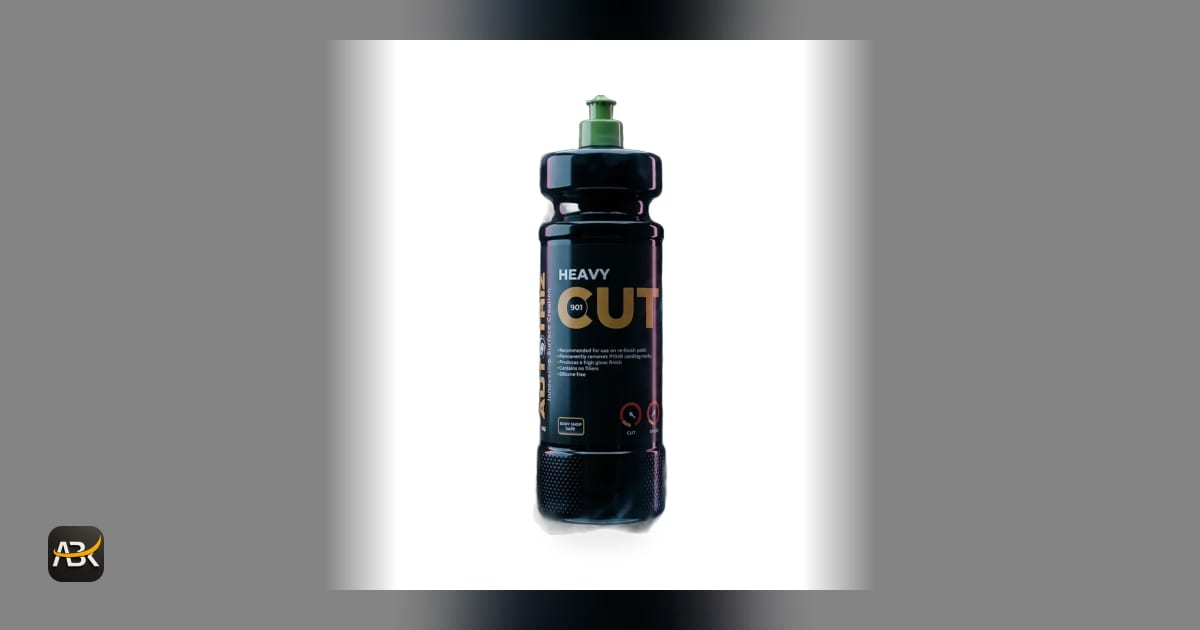
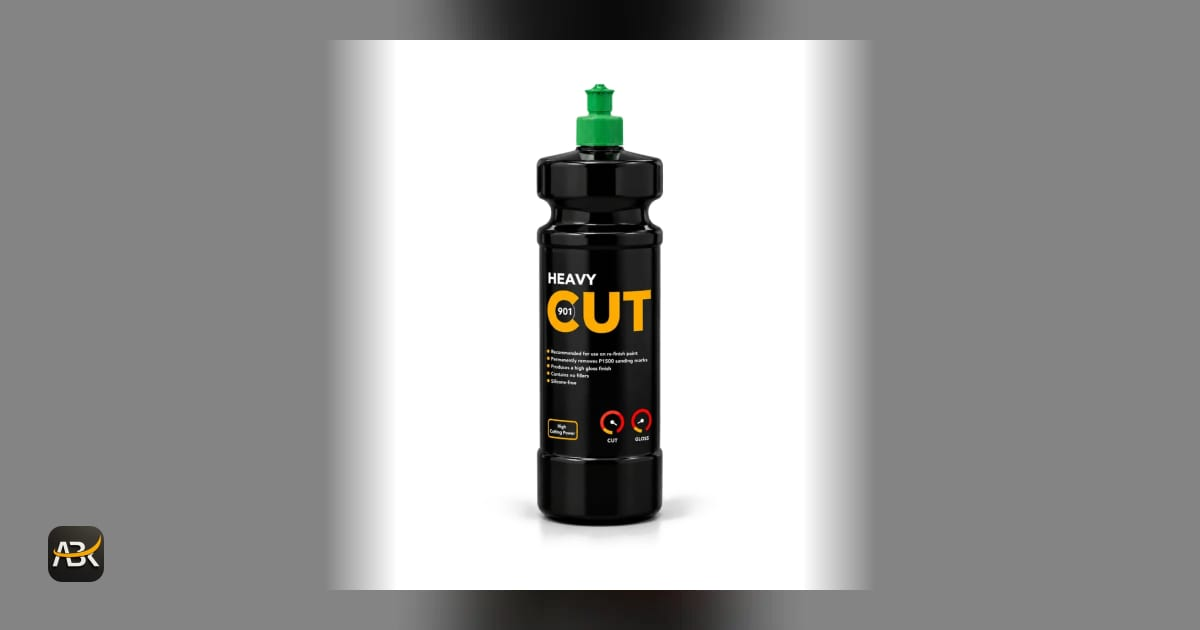
feat(products): update Autotriz Heavy Cut 901 with high-res studio bottle packshot
- Processed new high-res bottle render with green cap onto pure #ffffff 1200x1200 canvas
- Updated product specs with cut power, finish, and formulation details
- Regenerated social OG card public/og/products/autotriz-heavy-cut-901.jpg

Changed region(s): [[0.4317, 0.1206, 0.5858, 0.8444], [0.4317, 0.9349, 0.555, 1.0], [0.37, 0.0, 0.4625, 0.0603]]

diff --git a/src/data/products.ts b/src/data/products.ts
@@ -679,8 +679,25 @@ export const PRODUCTS: Product[] = [
     images: ["/products/autotriz/autotriz-heavy-cut-901.webp"],
     specs: [
       { label: { en: "SKU", ar: "رقم المنتج" }, value: { en: "901", ar: "901" } },
+      {
+        label: { en: "Cut Power", ar: "قوة القطع" },
+        value: { en: "High Cut (Removes P1500 Sanding Marks)", ar: "قطع عالي (إزالة سنفرة P1500)" },
+      },
+      {
+        label: { en: "Finish", ar: "التشطيب" },
+        value: { en: "High Gloss & Hologram-Free", ar: "لمعان عالي وخالٍ من الهالات" },
+      },
+      {
+        label: { en: "Formulation", ar: "التركيبة" },
+        value: { en: "Silicone-Free, No Fillers, Body Shop Safe", ar: "خالٍ من السيليكون وبدون حشوات، آمن لورش الصبغ" },
+      },
+      {
+        label: { en: "Origin", ar: "المنشأ" },
+        value: { en: "Made in Germany", ar: "صُنع في ألمانيا" },
+      },
     ],
     audience: "both",
+    updatedAt: "2026-09-04",
   },
   {
     slug: "autotriz-ultimate-polish-302",
